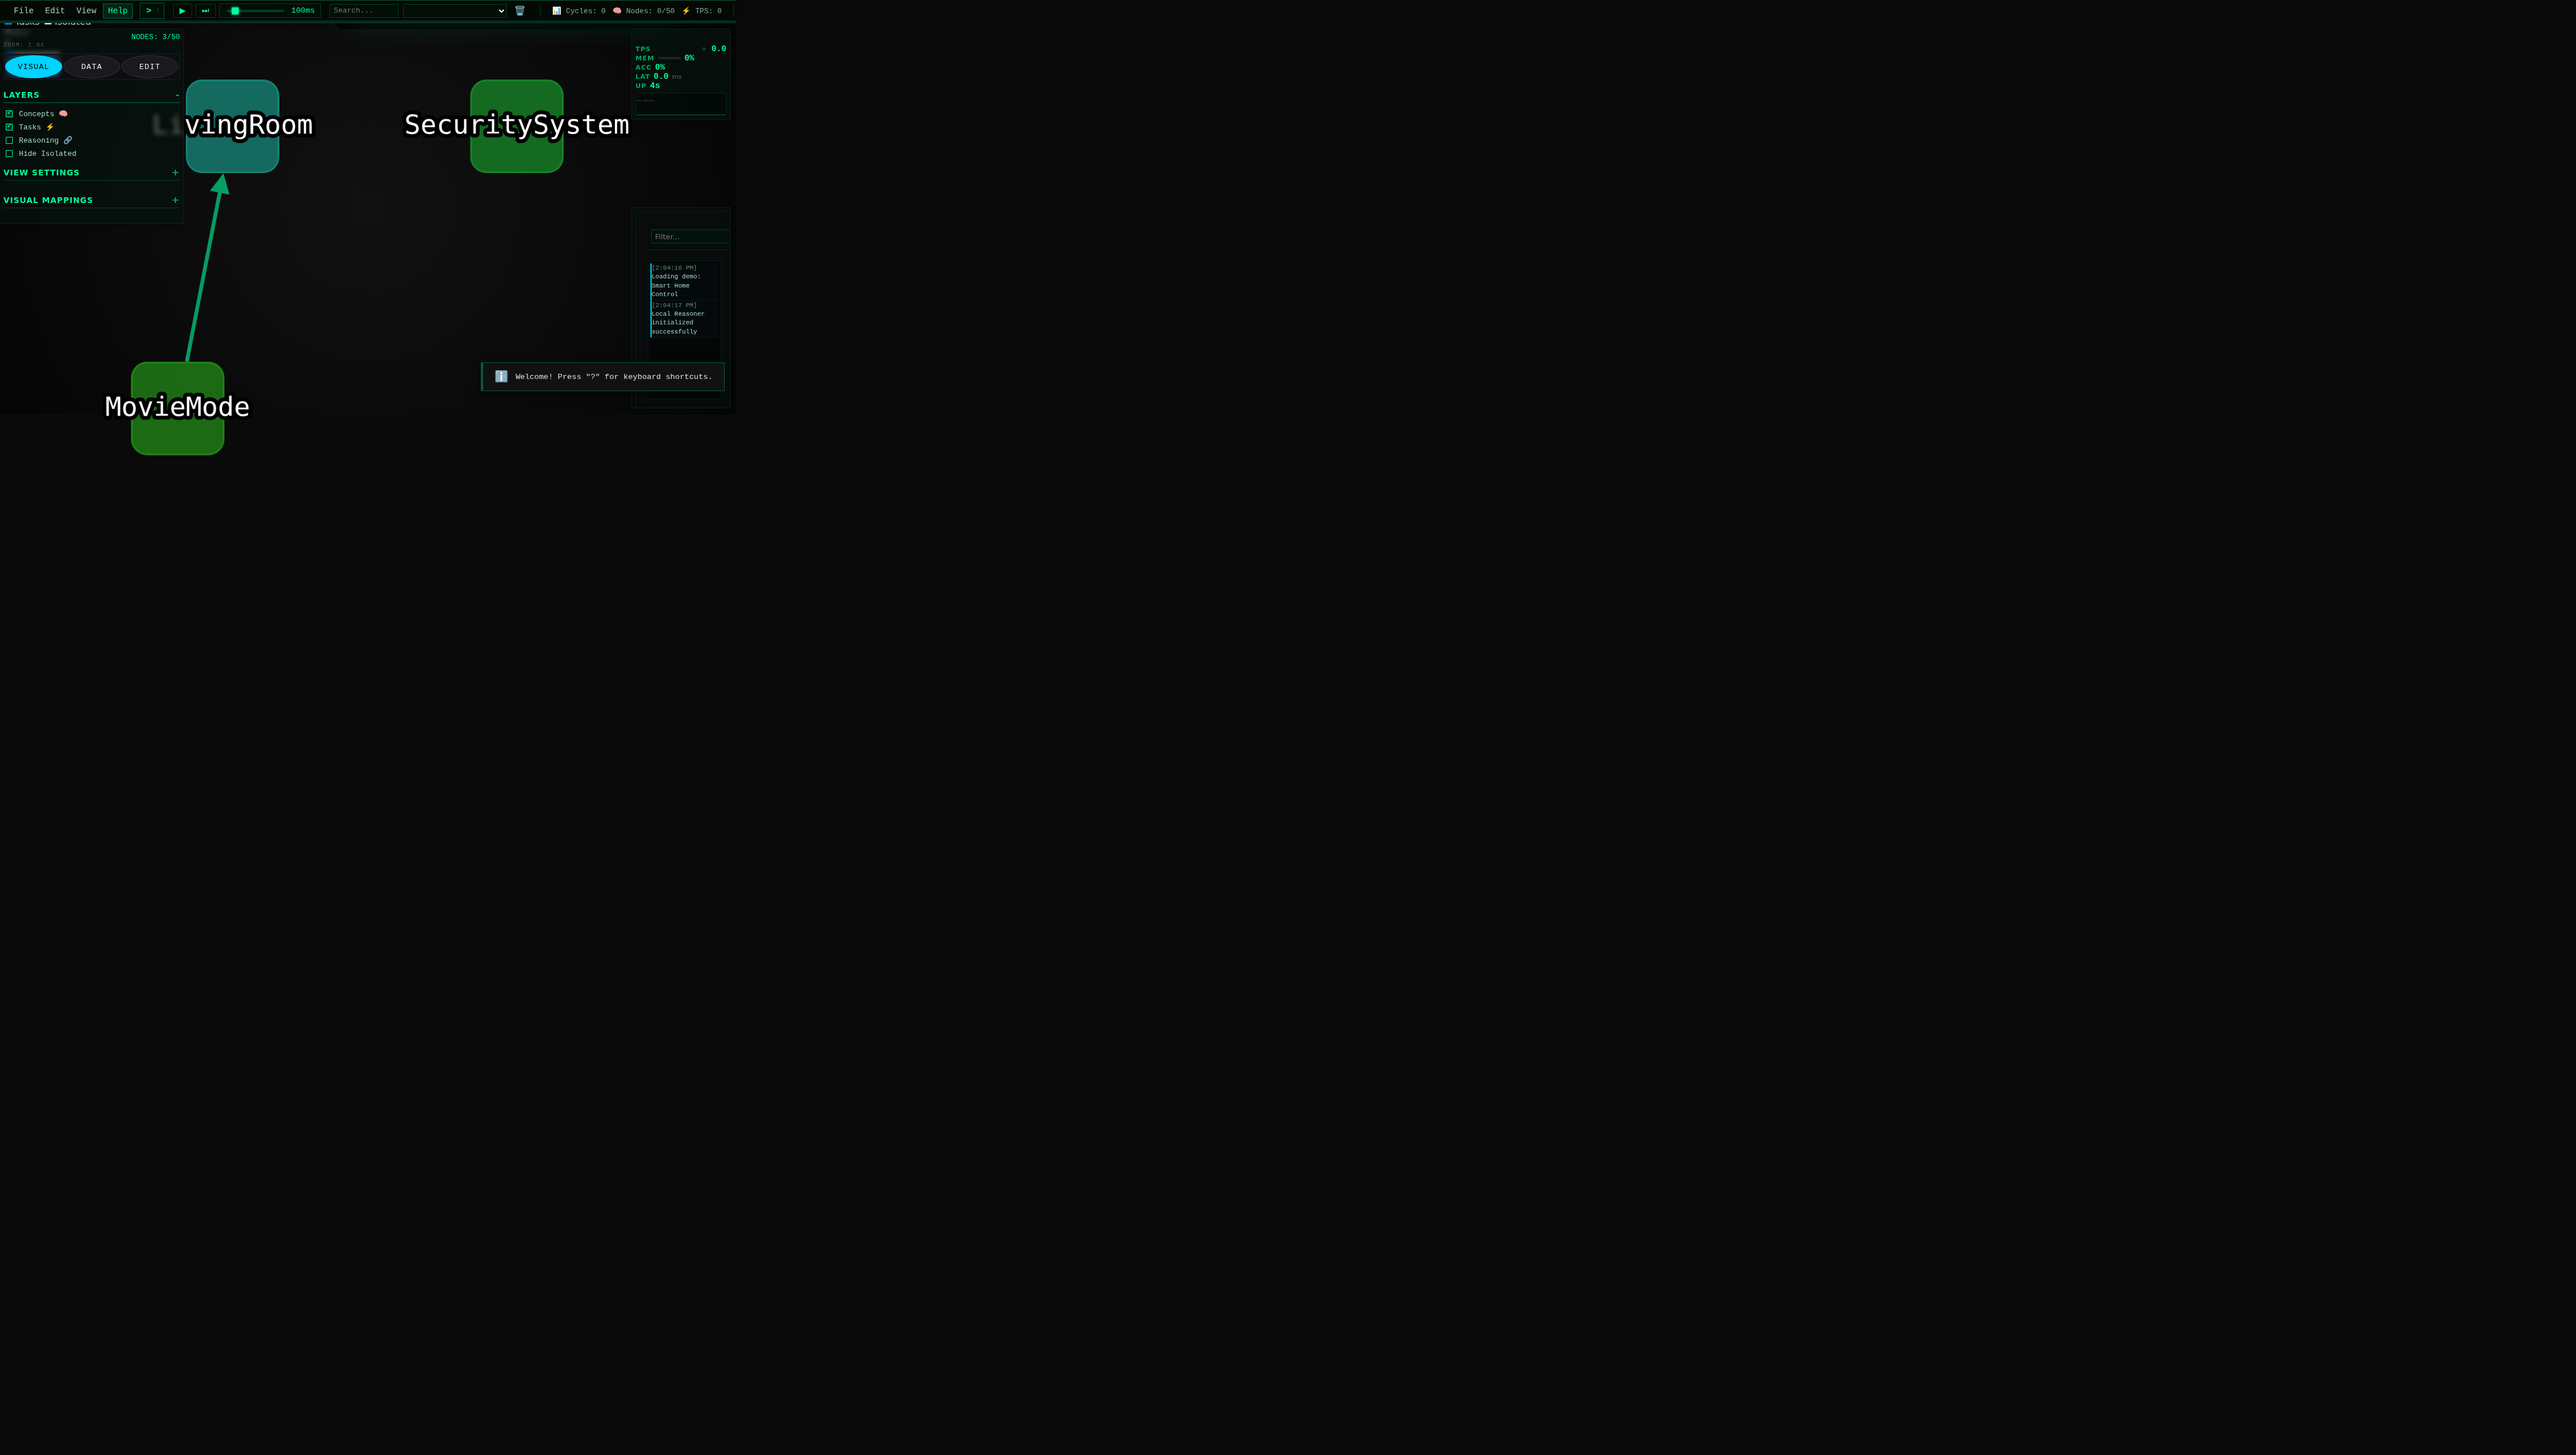
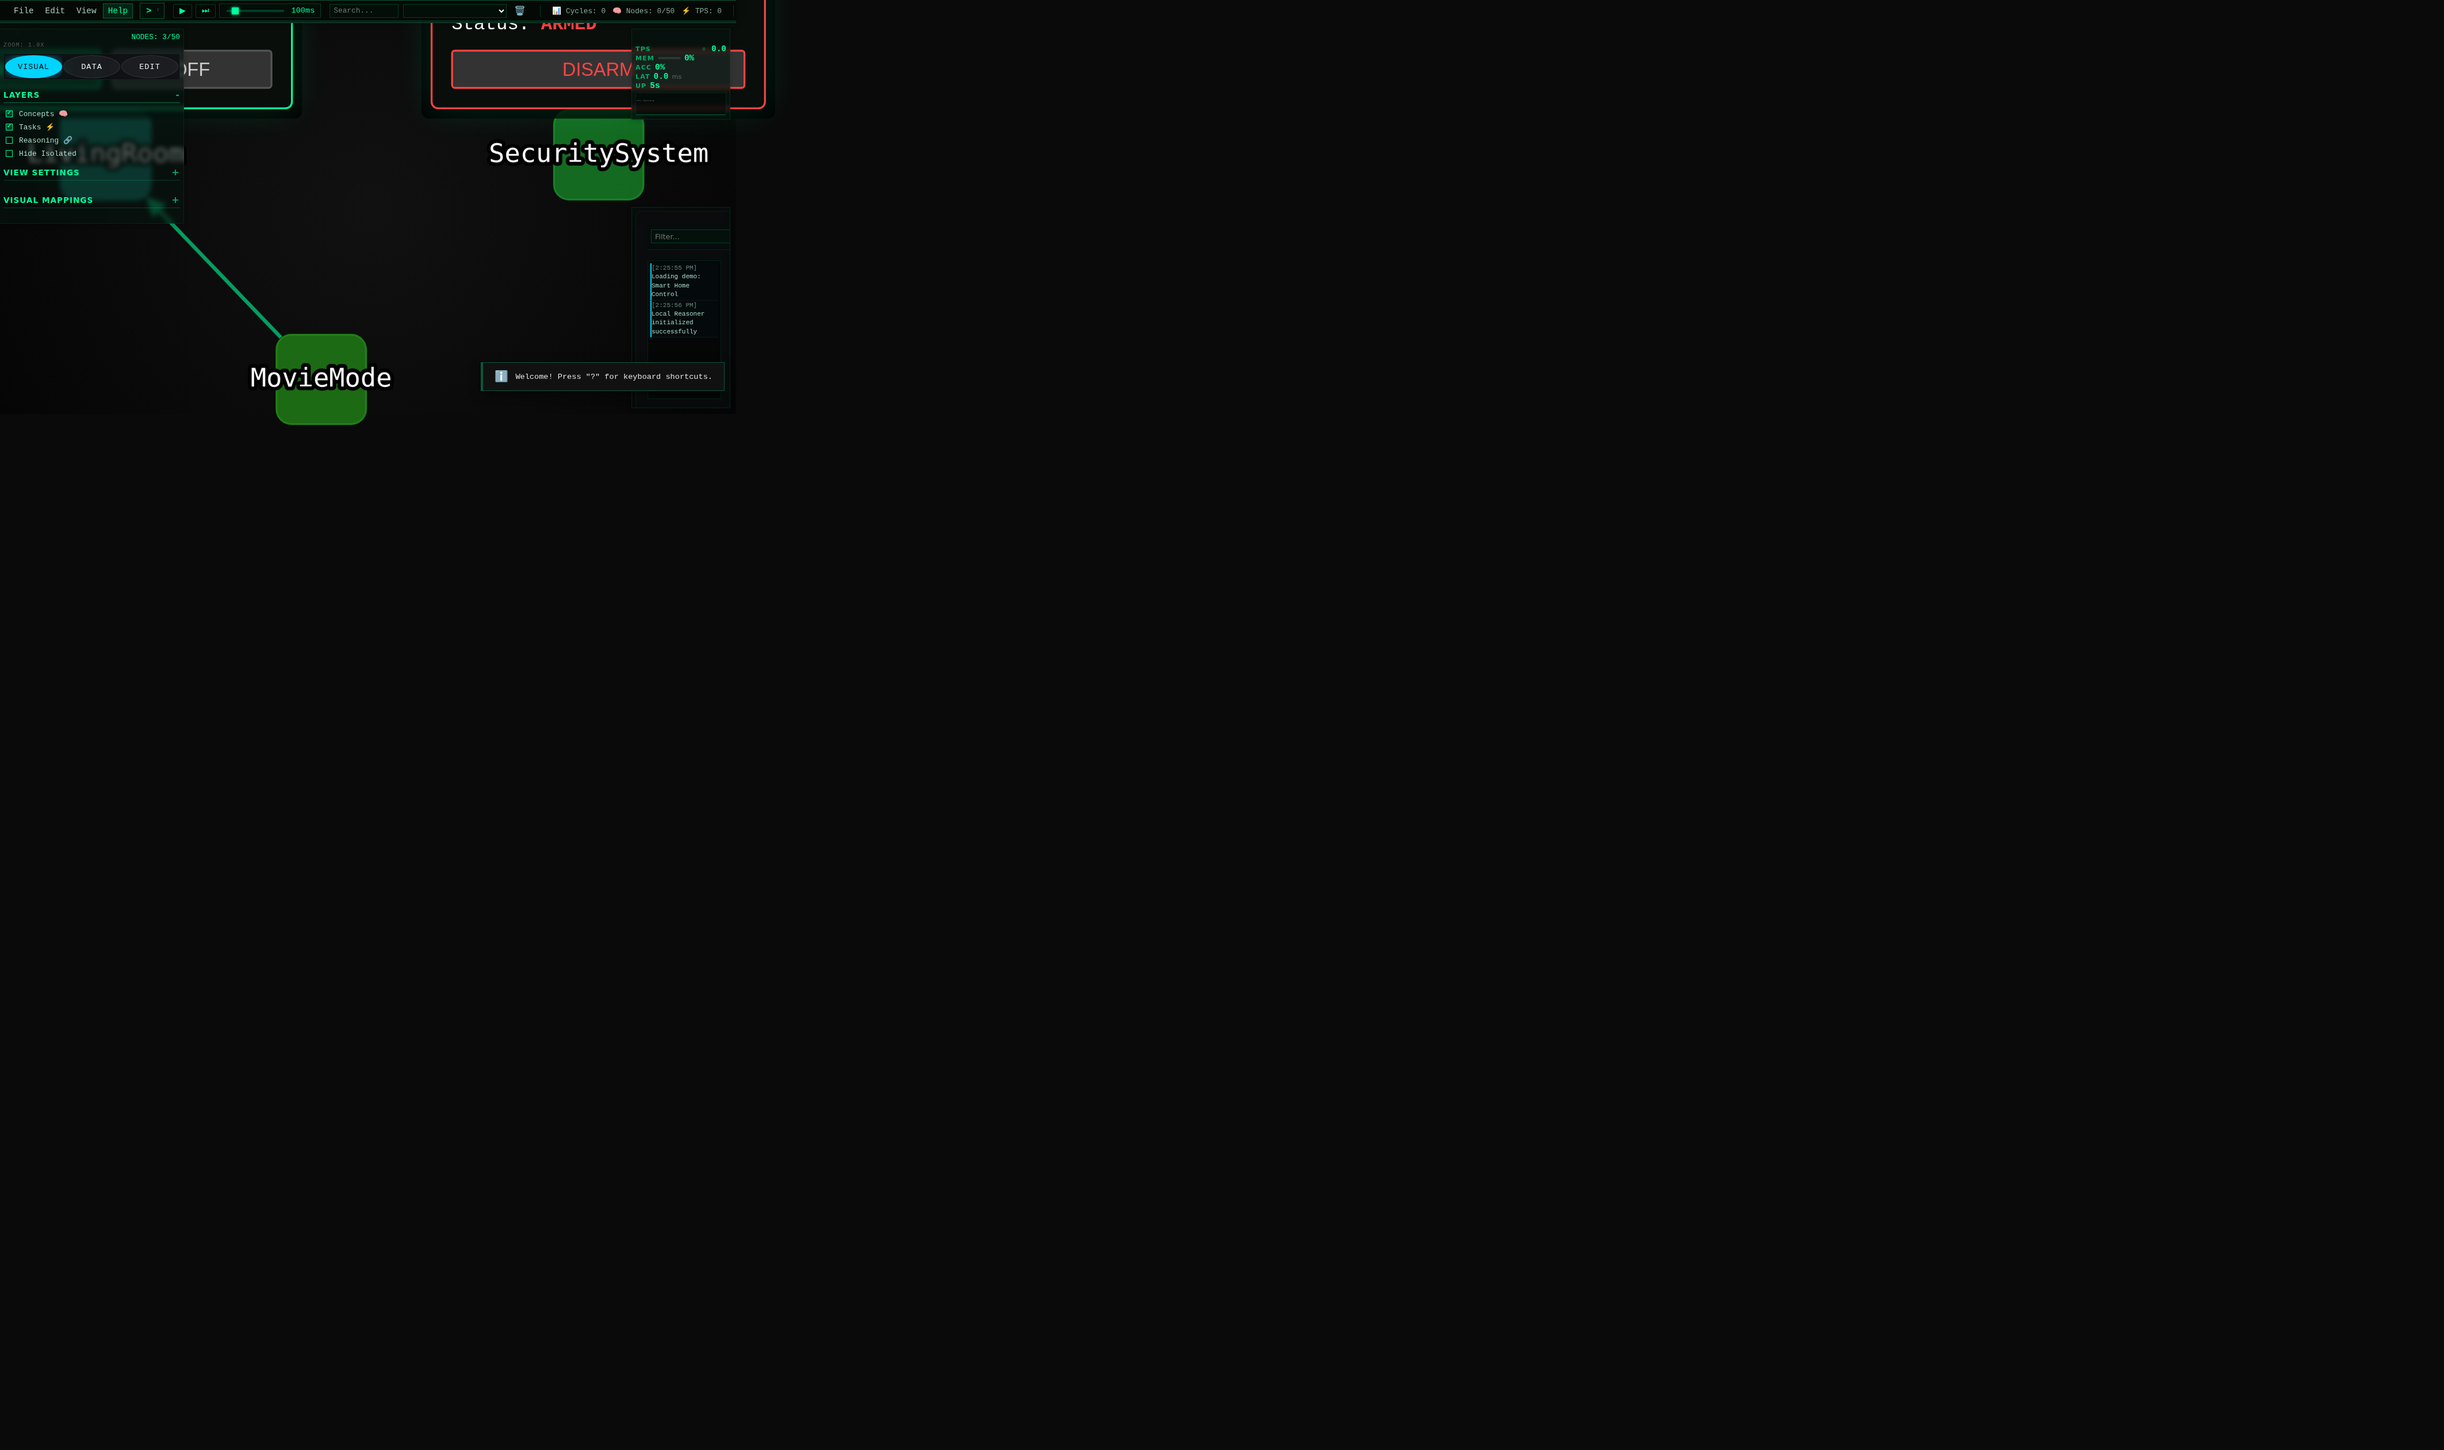
feat: Explorer UI - Interactive Widgets, Layout Fixes & Code Cleanup
- **Layout Fixes:**
    - Updated Layer HUD geometry (`ui/src/styles/hud-docking.css`) to be 1/4 screen width, anchored top-left, and taller (80vh) to fix cut-off content.
    - Fixed HTML Widget rendering (`ui/src/zui/ContextualWidget.js`, `ui/src/styles/components.css`) to use proper absolute positioning and centering, eliminating blank space issues.
- **Interactive Demo:**
    - Added "Smart Home Control" demo (`ui/src/data/demos/interactive.js`) featuring interactive HTML DOM widgets (sliders, buttons) attached to graph nodes.
- **Refactoring:**
    - Modularized `demos.js` into `ui/src/data/demos/` (basic, procedural, interactive).
    - Cleaned up `ExplorerApp.js` structure and comments.
- **Verification:**
    - Added E2E tests (`verification_interactions_complex.spec.js`, `verification_interactive_demo.spec.js`).
    - Generated verification screenshots demonstrating successful layout and widget rendering.

Changed region(s): [[0.1553, 0.0, 0.3106, 0.2784], [0.0, 0.0, 0.1242, 0.1856], [0.0311, 0.2165, 0.1553, 0.3093]]

diff --git a/ui/src/zui/ContextualWidget.js b/ui/src/zui/ContextualWidget.js
@@ -103,7 +103,7 @@ export class ContextualWidget {
         Object.assign(div.style, {
             position: 'absolute',
             pointerEvents: 'auto', // Allow interaction
-            transform: 'translate(-50%, -150%)' // Center horizontally, place above node
+            transform: 'translate(-50%, calc(-100% - 20px))' // Center horizontally, place above node with gap
         });
         div.innerHTML = contentHtml;
 

diff --git a/ui/src/styles/components.css b/ui/src/styles/components.css
@@ -413,8 +413,10 @@ button:active {
 
 .zui-widget {
     pointer-events: auto;
+    position: absolute;
     font-family: var(--font-mono, 'Consolas', monospace);
     font-size: 10px;
+    z-index: 100;
 }
 
 .zui-panel {
